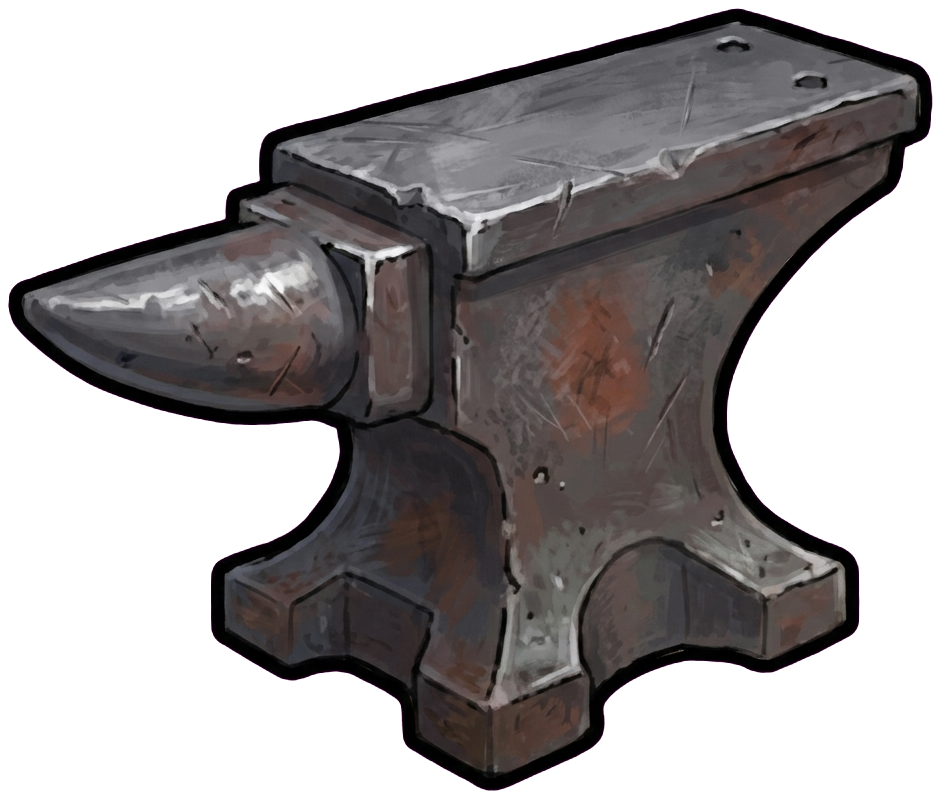
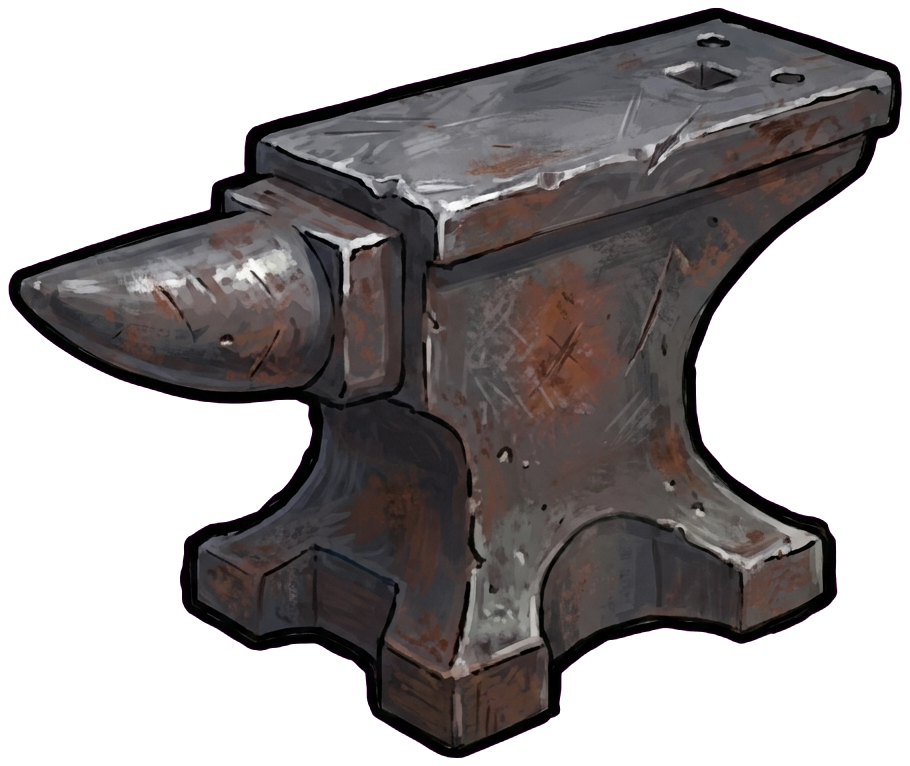
polish(looptest): heat bar above furnace, furnace left+10%, literal anvil re-extracted from anchor
Owner feedback pass:
1. Heat gauge relocated to centered above the furnace crown (#heatMini).
2. Furnace nudged left + ~10% larger (LAYOUT.stSmelt x 0.25->0.20, w 0.46->0.51; RECORDED synced).
3. Anvil re-extracted LITERALLY from the anchor (tighter crop -> hosted -> NB Pro edit_image with a
   pixel-faithful "cutout not redraw" prompt, hammer removed, chroma-keyed) replacing the earlier
   redrawn generic anvil. anchor_anvil.png overwritten. Seed pruned from the host.

Verified: self-test GREEN, pipeline intact, no errors.

diff --git a/Swordforge_new_looptest.html b/Swordforge_new_looptest.html
@@ -65,7 +65,7 @@ body { font-family: Arial, sans-serif; background: #2b2b2b; min-height: 100vh; d
 #furnaceSmoke { position: absolute; left: 42%; top: 0%; width: 17%; z-index: 1; opacity: .5; pointer-events: none; transform-origin: bottom center; animation: smokeRise 6s ease-in-out infinite; }
 @keyframes smokeRise { 0% { opacity: 0; transform: translateY(12px) scale(.85); } 40% { opacity: .55; } 100% { opacity: 0; transform: translateY(-16px) scale(1.15); } }
 /* heat gauge — relocated out of the HUD into a small bench overlay near the furnace */
-#heatMini { position: absolute; left: 8px; top: 8px; z-index: 12; display: flex; align-items: center; gap: 4px; background: rgba(20,15,8,0.62); border: 1px solid #6a5636; border-radius: 8px; padding: 3px 6px; }
+#heatMini { position: absolute; left: 46%; top: 3px; transform: translateX(-50%); z-index: 12; display: flex; align-items: center; gap: 4px; background: rgba(20,15,8,0.7); border: 1px solid #6a5636; border-radius: 8px; padding: 3px 6px; }   /* centered above the furnace */
 .gauge { display: flex; align-items: center; gap: 4px; }
 .gauge .lbl { font-size: 12px; }
 .gauge .track { width: 52px; height: 10px; background: #211a11; border: 1px solid #5a4629; border-radius: 6px; overflow: hidden; }
@@ -426,7 +426,7 @@ const NS = 'http://www.w3.org/2000/svg';
 // ============================================================
 const LAYOUT = {
     portrait: {   // Phase 1 anchor composition (loop r3: anchor-cut props packed with edge bleeds per the Opus art director). bench = left column (rail excluded).
-        stSmelt:    {x:0.25, y:-0.02, w:0.46},  // furnace, crown clears the hint box
+        stSmelt:    {x:0.20, y:-0.02, w:0.51},  // furnace, nudged left + ~10% bigger (crown clears the hint box)
         stMortar:   {x:0.60, y:0.14,  w:0.30},  // mortar, top-right (full bowl + legs visible, touches furnace)
         pestle:     {x:0.66, y:0.06,  w:0.13},  // plunged into the mortar bowl (CSS ~50deg)
         hammerTool: {x:0.28, y:0.46,  w:0.17},  // hero hammer across the anvil face
@@ -819,7 +819,7 @@ function initMechanics(){ stMortar=document.getElementById('stMortar'); stSmelt=
 // ============================================================
 function runLayoutSelfTest(){
     const EPS=0.08, fails=[];   // allows intentional edge bleeds (furnace pokes above, dragon/anvil bleed left) while still catching gross off-zone errors
-    const RECORDED={ stSmelt:{x:0.25,y:-0.02,w:0.46}, stMortar:{x:0.60,y:0.14,w:0.30}, pestle:{x:0.66,y:0.06,w:0.13}, hammerTool:{x:0.28,y:0.46,w:0.17}, stAnvil:{x:0.13,y:0.48,w:0.40}, bucket:{x:0.63,y:0.53,w:0.27}, mug:{x:0.70,y:0.52,w:0.17}, dragon:{x:-0.01,y:0.42,w:0.17} };   // Phase 1 anchor composition, loop r5 (packed, mid-band closed)
+    const RECORDED={ stSmelt:{x:0.20,y:-0.02,w:0.51}, stMortar:{x:0.60,y:0.14,w:0.30}, pestle:{x:0.66,y:0.06,w:0.13}, hammerTool:{x:0.28,y:0.46,w:0.17}, stAnvil:{x:0.13,y:0.48,w:0.40}, bucket:{x:0.63,y:0.53,w:0.27}, mug:{x:0.70,y:0.52,w:0.17}, dragon:{x:-0.01,y:0.42,w:0.17} };   // Phase 1 anchor composition, loop r5 (packed, mid-band closed)
     if(typeof LAYOUT==='undefined') fails.push('LAYOUT undefined');
     if(typeof resolveLayout!=='function') fails.push('resolveLayout missing');
     if(!fails.length){
